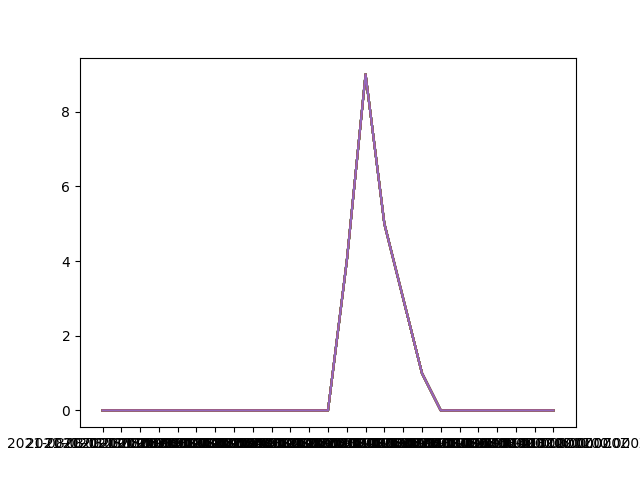
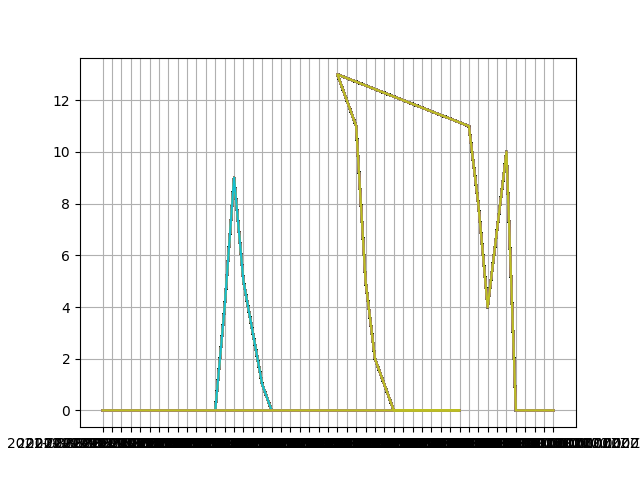
Added status command for new TF2 server

diff --git a/bot/cogs/status.py b/bot/cogs/status.py
@@ -20,6 +20,7 @@ import cchardet
 
 
 ttt_server = ("208.103.169.70", 27021)
+tf2_server = ("131.153.29.243", 27015)
 mc_server = MinecraftServer.lookup("158.62.204.28:25565")
 
 ecolor = 0xe91e63
@@ -45,7 +46,7 @@ class status(commands.Cog):
                 # adds every player to a list
                 players = []
                 for player in server.players()["players"]:
-                    players.append("__" + player["name"]+ "__")
+                    players.append("__" + player["name"] + "__")
                 
                 player_count = len(players)
                 ttt_map = server.info()["map"]
@@ -74,7 +75,47 @@ class status(commands.Cog):
         time_formatted = time_now.strftime("%m/%d/%Y at %H:%M:%S")
         em.set_footer(text=f"Last Updated: {time_formatted}")
         await ctx.send(embed = em)
-    
+        
+    @commands.command(aliases=['statusTF2','TF2Status','tf2status'])
+    async def statustf2(self, ctx):
+        try:
+            with ServerQuerier(tf2_server) as server:
+
+                tf2_info = server.info()
+                tf2_players = server.players()
+
+                players = []
+                for player in server.players()["players"]:
+                    players.append("__" + player["name"] + "__")
+                
+                player_count = len(players)
+                tf2_map = server.info()["map"]
+                max_players = server.info()["max_players"]
+
+        except valve.source.NoResponseError:
+            await ctx.send(f"``Server {tf2_server[0]}:{tf2_server[1]} timed out!  No Response.``")
+            return 0
+
+        em = discord.Embed(title="**{server_name}**".format(**tf2_info), color=ecolor)
+        em.set_thumbnail(url="https://i.imgur.com/eUgcNDX.png")
+        em.add_field(name="**Map**", value=f"{tf2_map}", inline=True)
+        em.add_field(name="**Player Count**", value=f"{player_count}/{max_players}", inline=True)
+        em.add_field(name="**Connect**", value="[[Connect]](https://tinyurl.com/36x3a6ns)", inline=True)
+
+        if (player_count == 0):
+            em.add_field(name="**Online Players**", value = "No one is online.", inline=True)
+
+        if (player_count > 0):
+            playerString = '\n'.join(players)
+            em.add_field(name="**Online Players**", value = playerString, inline=True)
+
+        time_now = datetime.now()
+        time_formatted = time_now.strftime("%m/%d/%Y at %H:%M:%S")
+        em.set_footer(text=f"Last Updated: {time_formatted}")
+        await ctx.send(embed=em)
+
+
+
     @commands.command(aliases=['statusMC','mcstatus','MCstatus'])
     async def statusmc(self, ctx):
         em = discord.Embed(title="**ChaoticCove**", color = ecolor)
@@ -247,6 +288,7 @@ class status(commands.Cog):
         ypoints = player_counts
         #plt.plot(time_stamps,player_counts)
         plt.plot(xpoints, ypoints)
+        plt.grid()
         #plt.savefig('player_count_history.png')
         plt.savefig('/root/ChaoticBot/bot/cogs/player_count_history.png')
         
@@ -335,6 +377,7 @@ class status(commands.Cog):
             ypoints = player_counts
             #plt.plot(time_stamps,player_counts)
             plt.plot(xpoints, ypoints)
+            plt.grid()
             #plt.savefig('player_count_history.png')
             plt.savefig('/root/ChaoticBot/bot/cogs/player_count_history.png')
             
